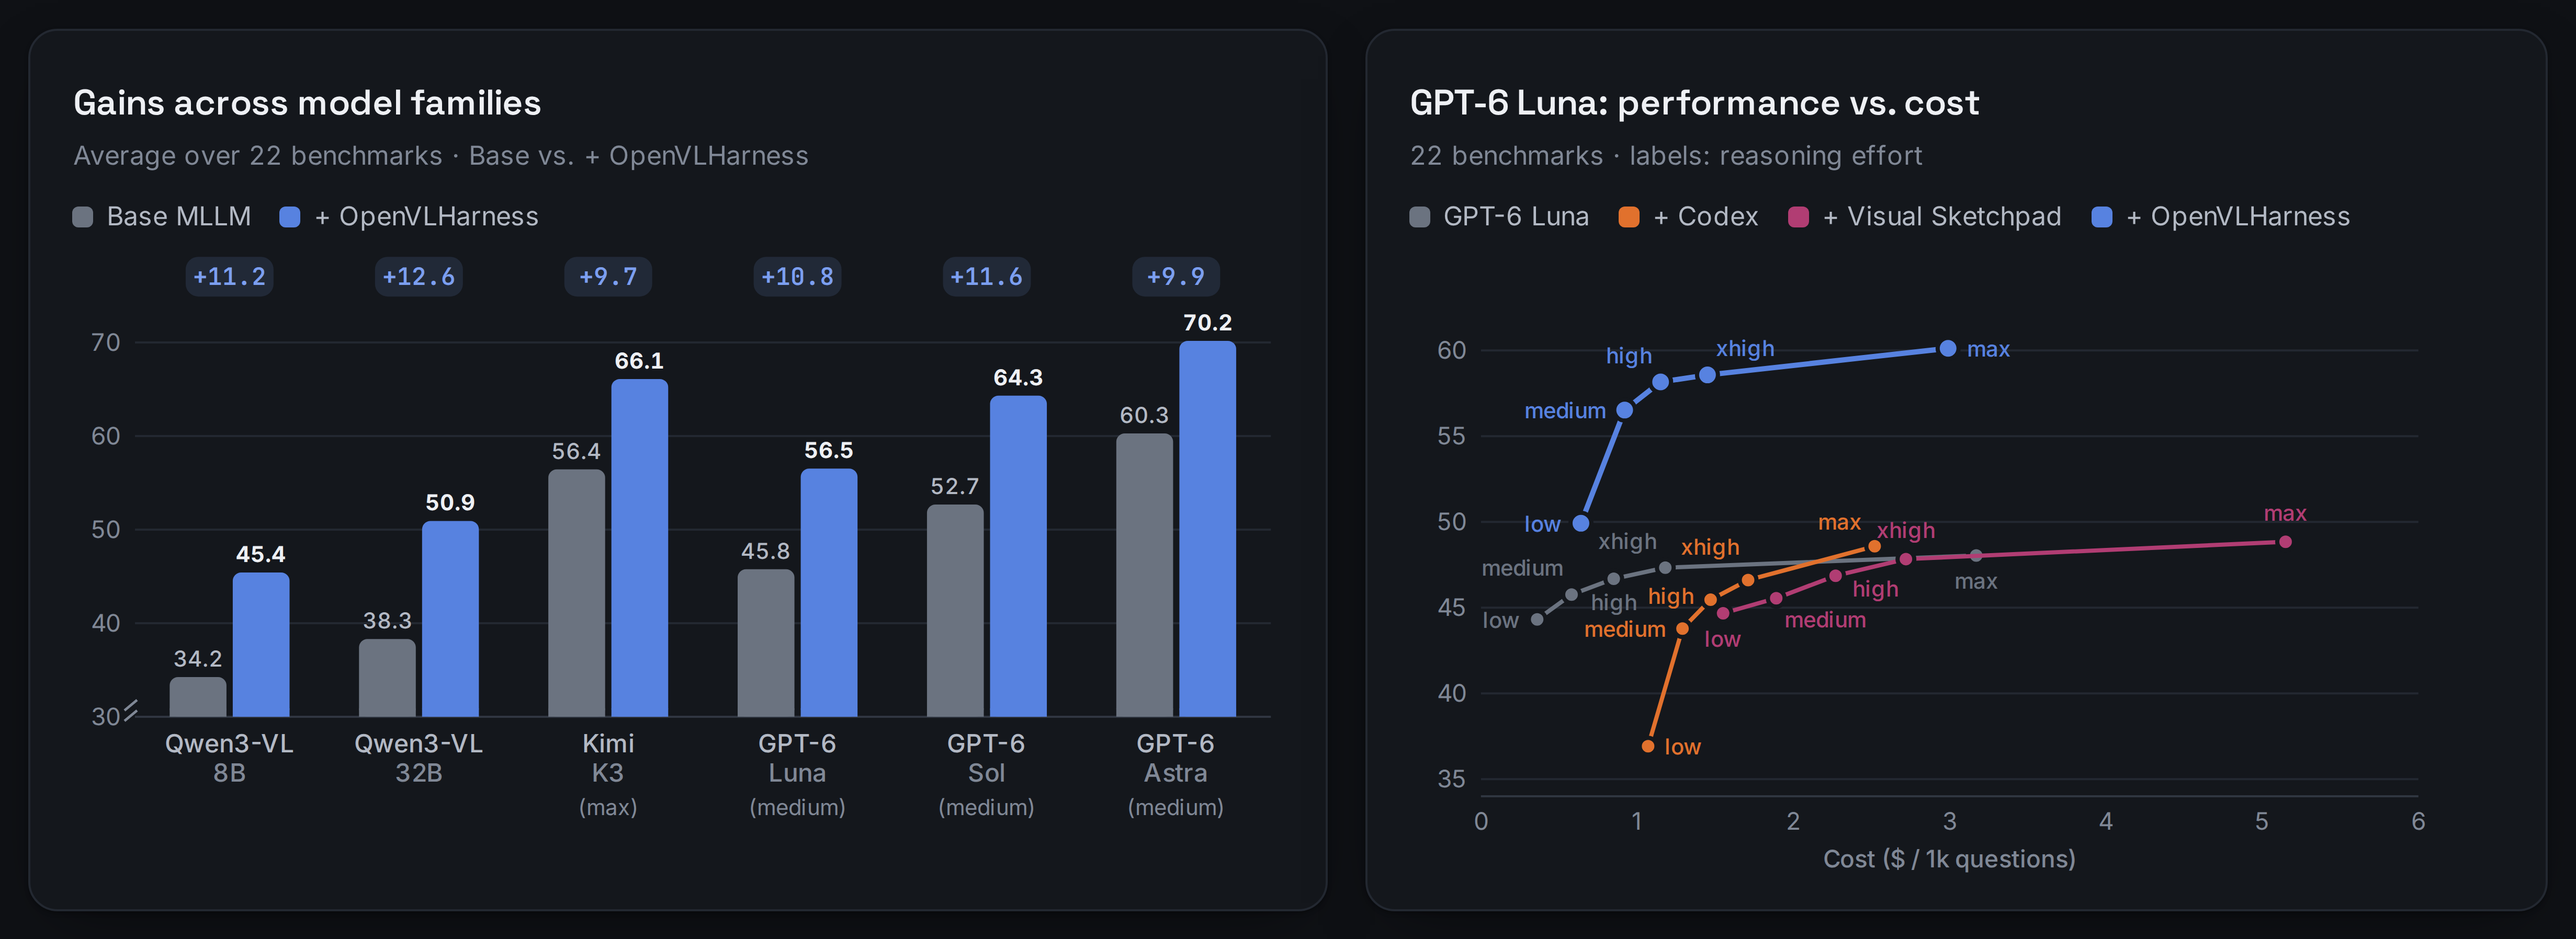
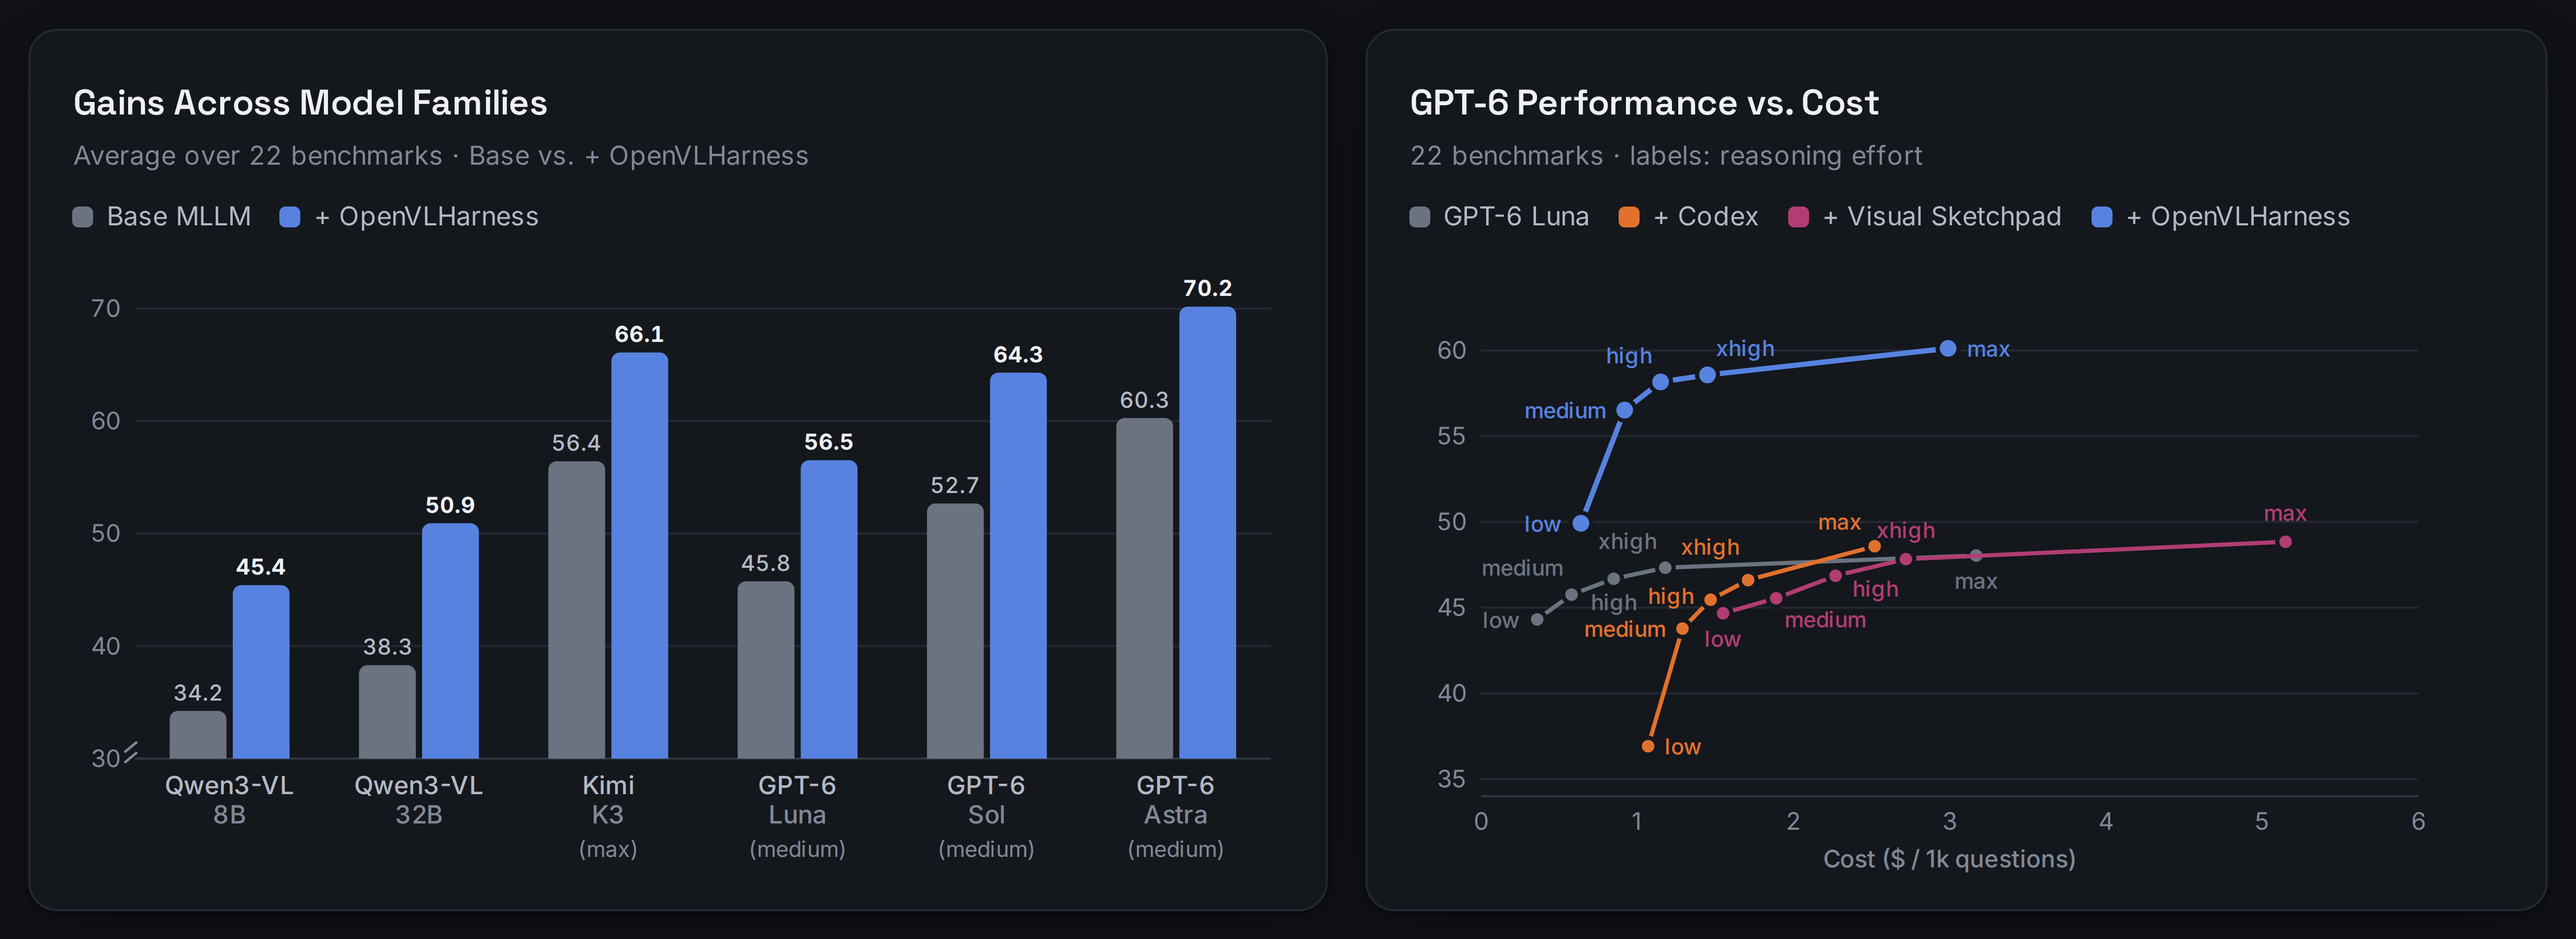
Add arXiv citation and refresh README website screenshots

diff --git a/README.md b/README.md
@@ -9,6 +9,7 @@
 <h3 align="center">Real-World Visual Agentic Tool&#8209;Use with Multimodal Memory</h3>
 
 <p align="center">
+  <a href="https://arxiv.org/abs/2610.26860"><img src="https://img.shields.io/badge/arXiv-2610.26860-b31b1b.svg" alt="arXiv:2610.26860"></a>
   <a href="https://openvlharness.github.io/"><img src="https://img.shields.io/badge/Project-Page-2653c1.svg" alt="Project page"></a>
   <a href="https://openvlharness.github.io/#playground"><img src="https://img.shields.io/badge/Demo-Interactive-8a2f6f.svg" alt="Interactive demo"></a>
   <a href="https://huggingface.co/datasets/uclanlp/OpenVLHarness-Evaluation-Datasets"><img src="https://img.shields.io/badge/%F0%9F%A4%97%20Datasets-Evaluation-f1b33c.svg" alt="Evaluation datasets on Hugging Face"></a>
@@ -687,10 +688,11 @@ default tools use, which are not covered by the MIT License.
 If you use OpenVLHarness in your research, please cite:
 
 ```bibtex
-@misc{openvlharness2026,
-  title  = {OpenVLHarness: Real World Visual Agentic Tool-Use with Multimodal Memory},
-  author = {Zhou, Yu and Yang, Cheng-Fu and Sun, Rui and Wu, Di and Peng, Sibo and Zhang, Mingyang and Yang, Zhen and Zhang, Ruiyi and Peng, Nanyun and Gan, Zhe and Chang, Kai-Wei},
-  year   = {2026},
-  url    = {https://openvlharness.github.io/}
+@article{openvlharness2026,
+  title   = {OpenVLHarness: Real World Visual Agentic Tool-Use with Multimodal Memory},
+  author  = {Zhou, Yu and Yang, Cheng-Fu and Sun, Rui and Wu, Di and Peng, Sibo and Zhang, Mingyang and Yang, Zhen and Zhang, Ruiyi and Peng, Nanyun and Gan, Zhe and Chang, Kai-Wei},
+  journal = {arXiv preprint arXiv:2610.26860},
+  year    = {2026},
+  url     = {https://arxiv.org/abs/2610.26860}
 }
 ```
